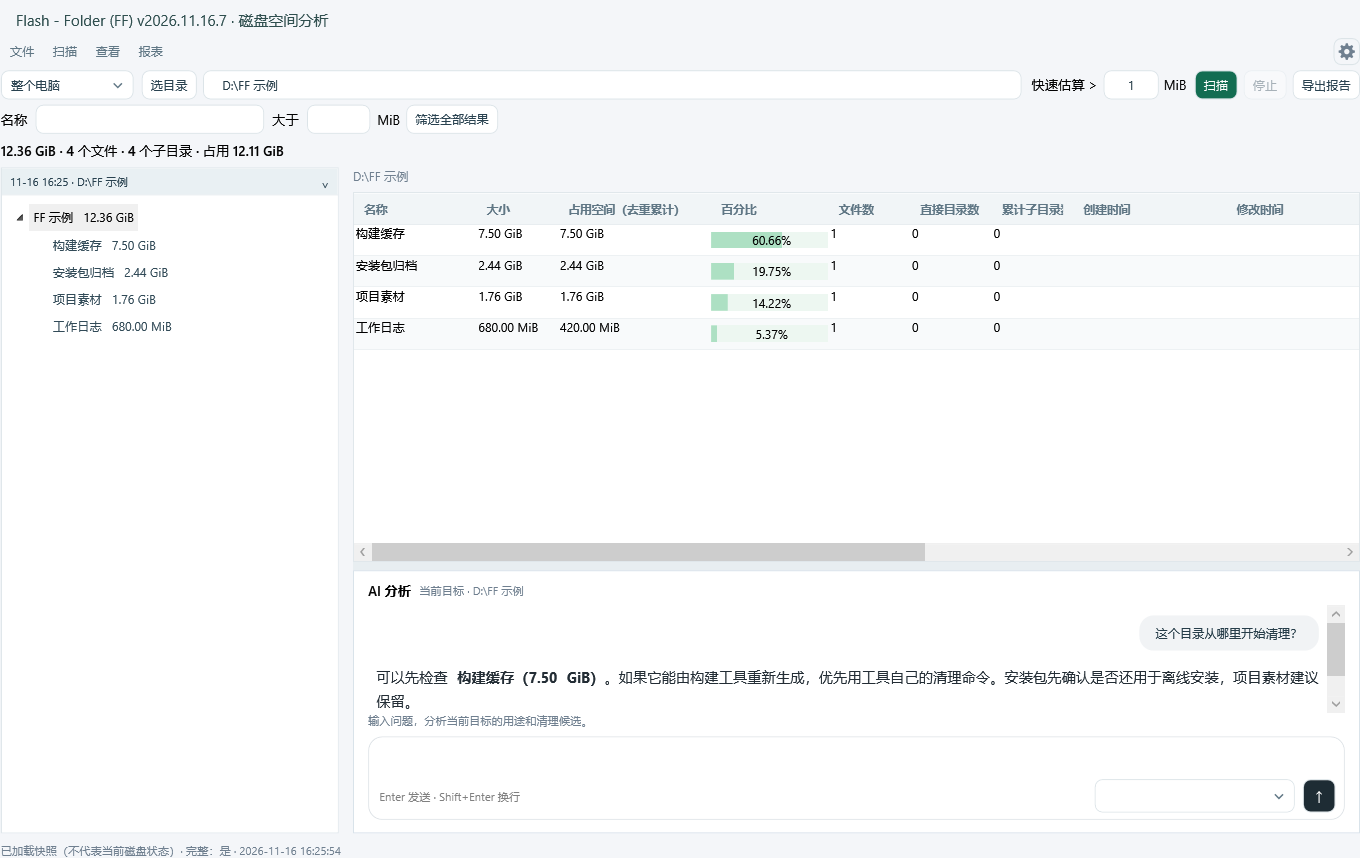
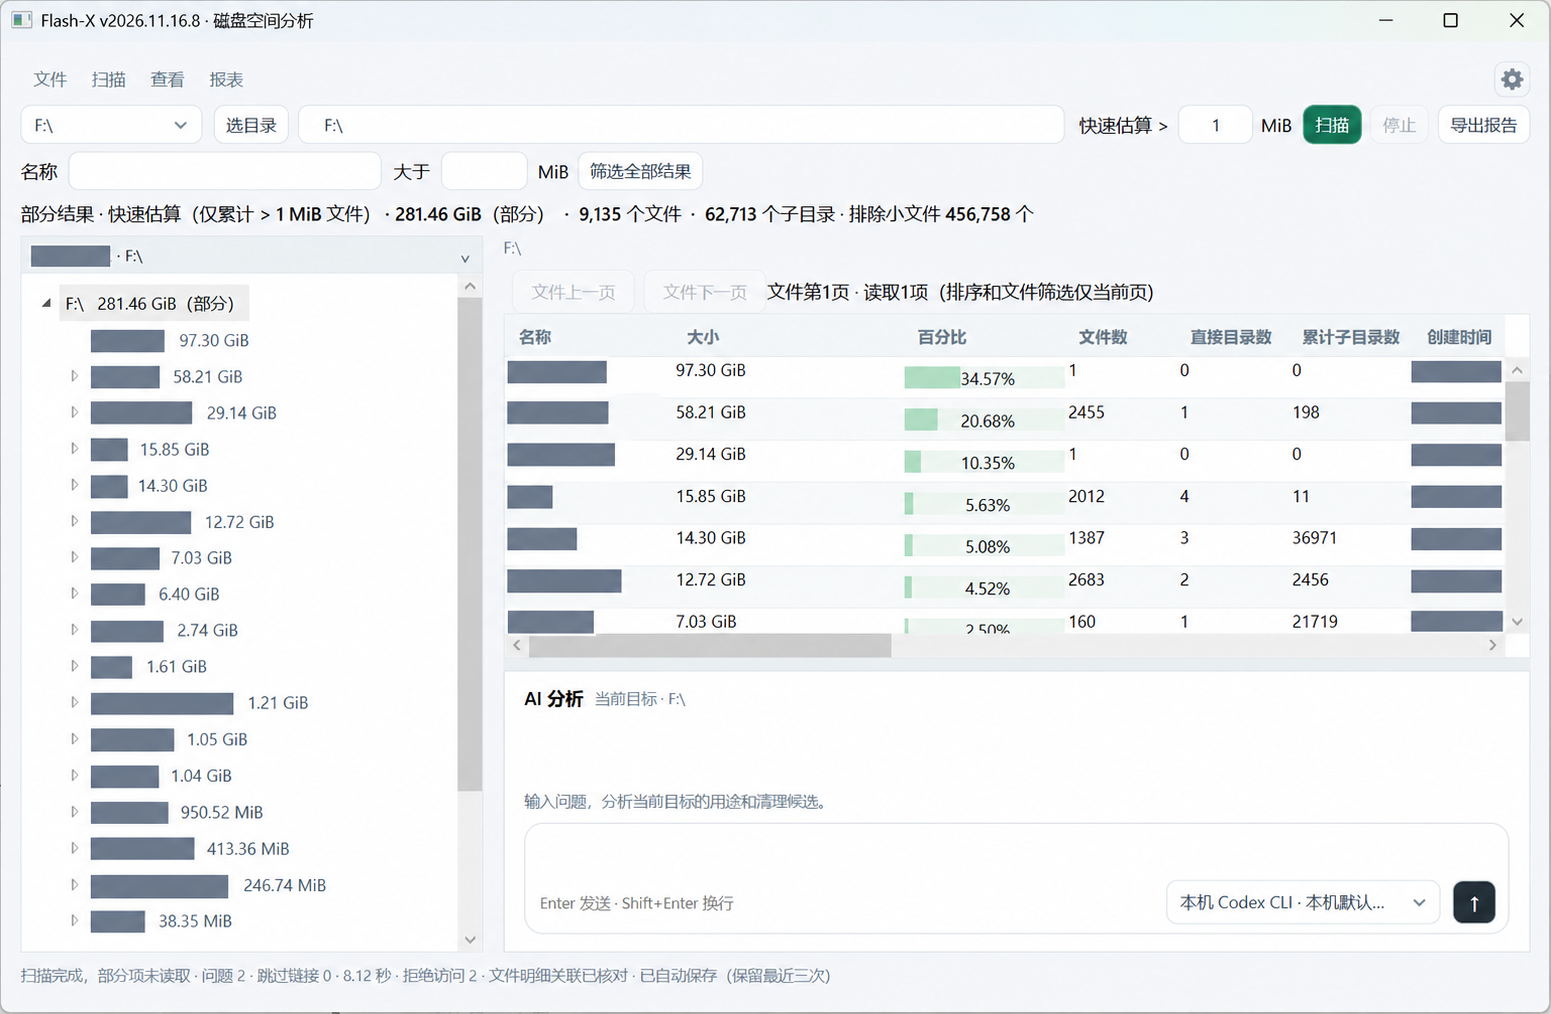
Show measured Flash-X scan in README

diff --git a/README.md b/README.md
@@ -1,12 +1,12 @@
 # Flash-X
 
-**闪电般定位大文件，用 AI 看懂目录，快速制定清理方案。**
+**500G硬盘，8.12秒扫完**
 
 Flash-X 是 Windows 磁盘空间分析工具。选一个目录、一个盘符或整个电脑，即可找到空间主要用在哪，并把扫描证据交给 AI 进一步分析。
 
 ![Flash-X 桌面界面，展示目录树、大小列表、AI 分析和导出入口](docs/images/ff-desktop.png)
 
-*界面演示。路径、统计和 AI 回复为示例，图中标题沿用旧名。*
+*单次实测，使用快速估算模式（仅累计大于 1 MiB 的文件）。本次有 2 项拒绝访问，结果为部分统计。截图中的目录名和日期已遮盖。*
 
 ## 三个核心能力
 
